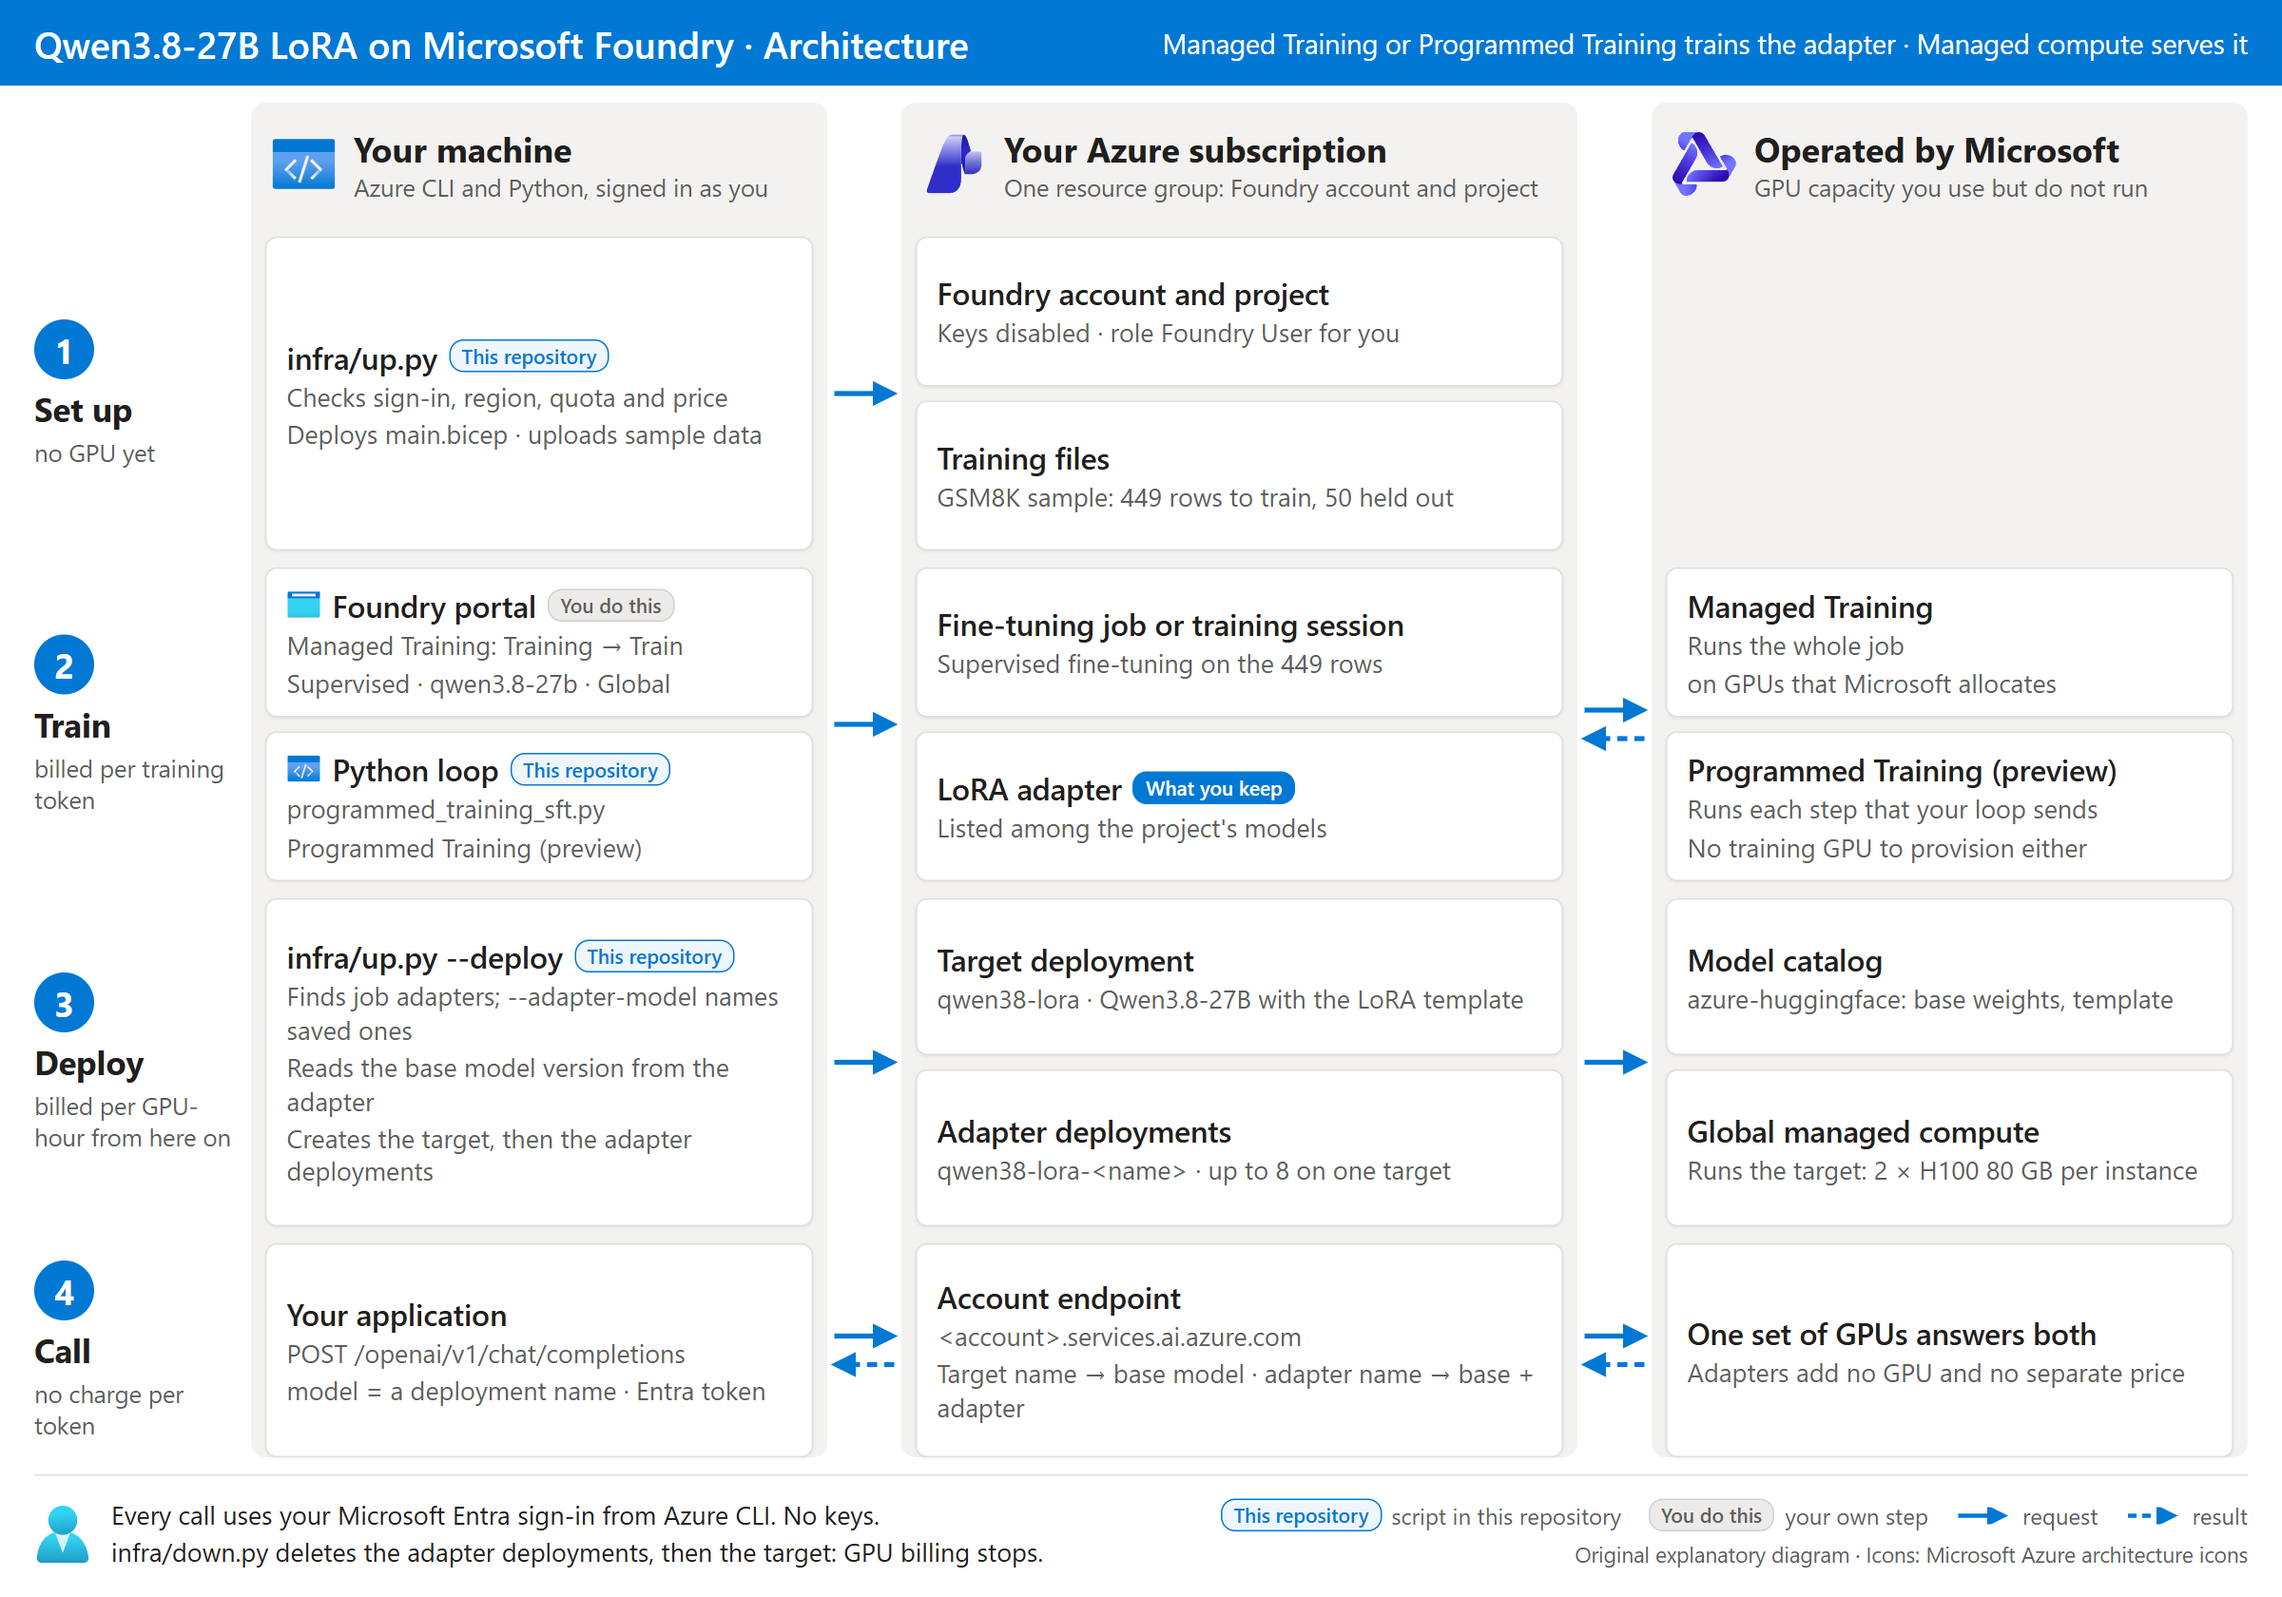
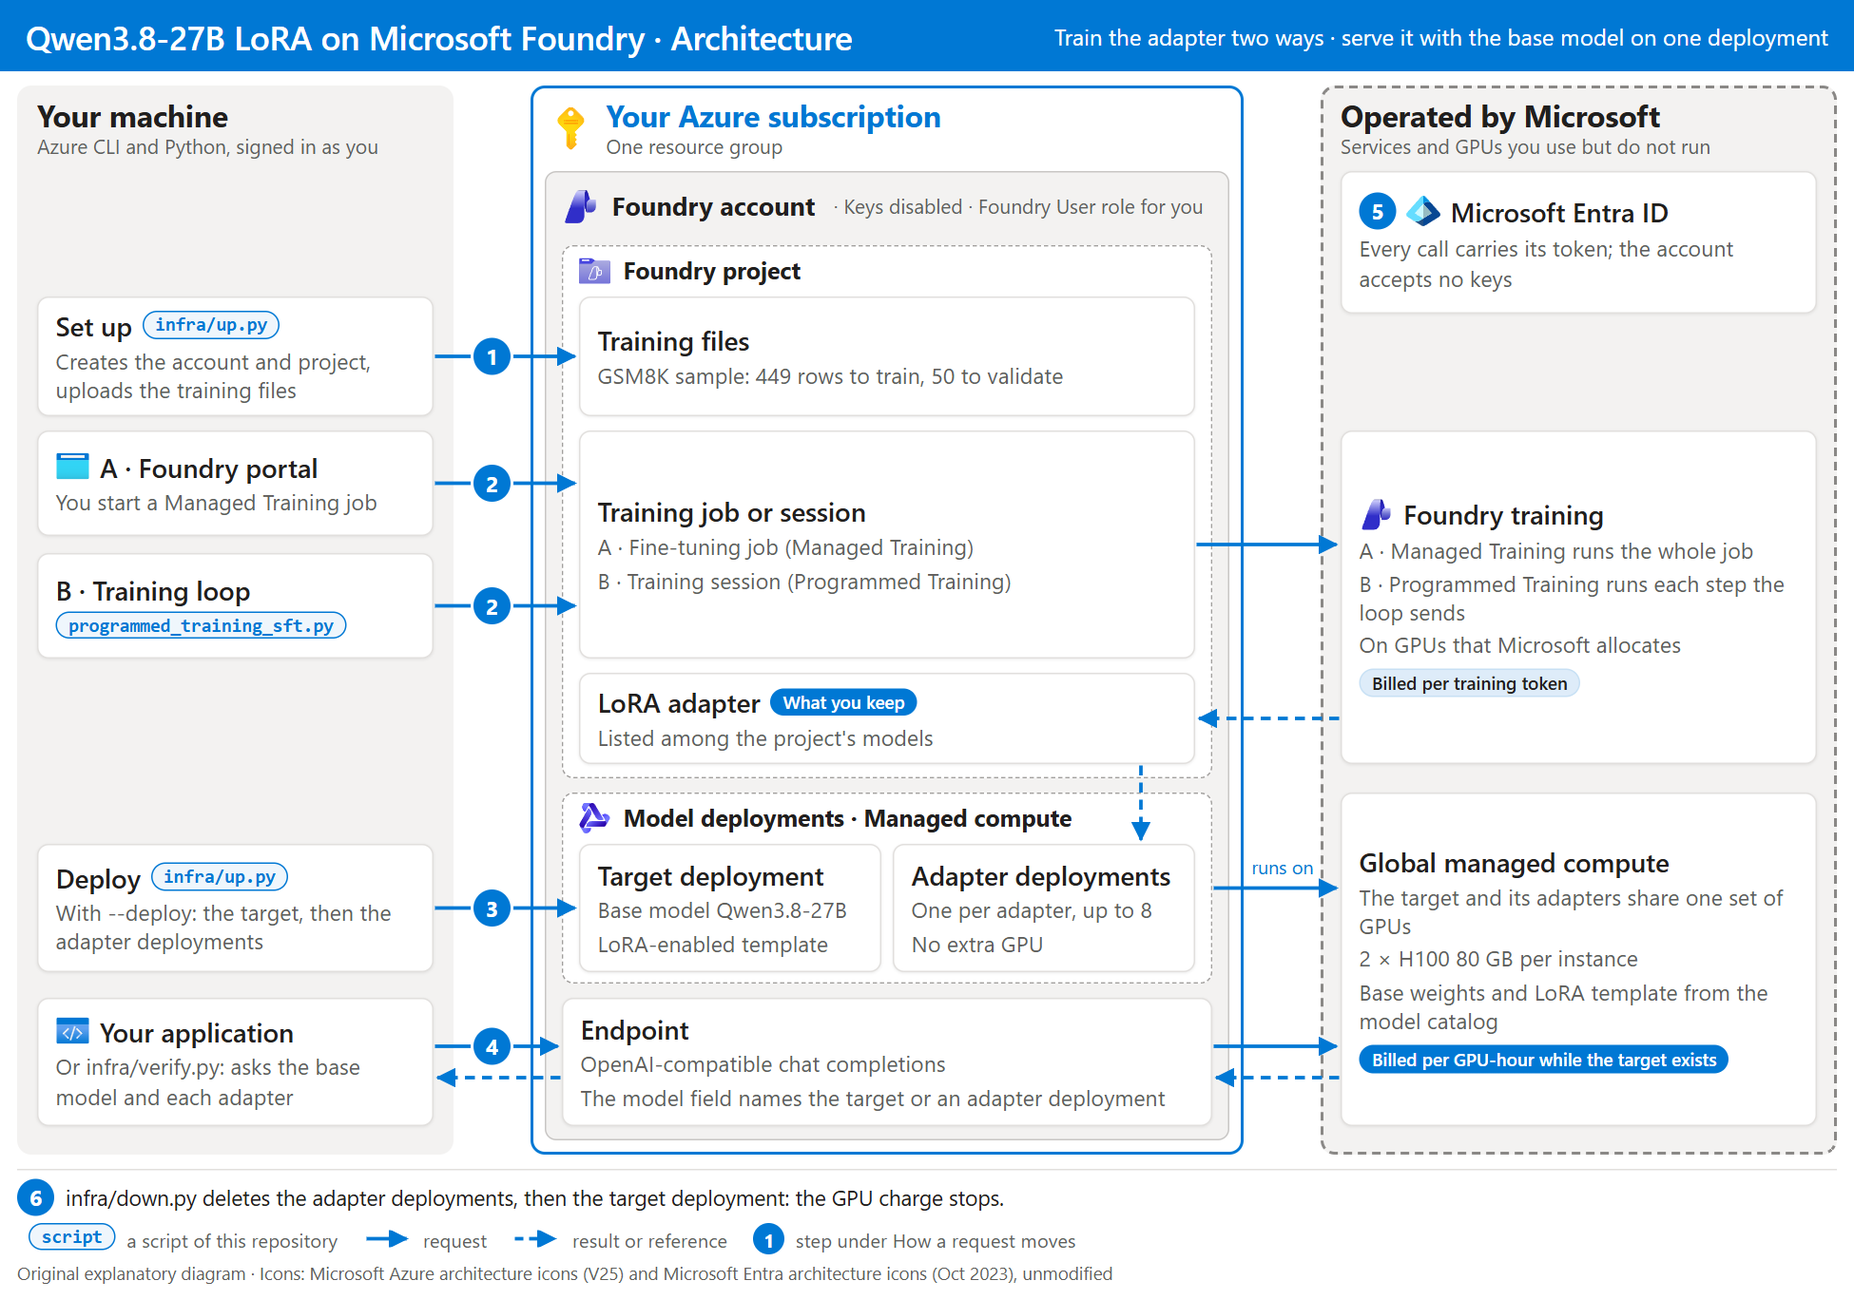
Foundry Model Training and Inference: one architecture figure in Purpose
Replace the architecture figure with one drawn in the Azure Architecture
Center style and move it to the top of Purpose: your machine, your Azure
subscription (resource group, Foundry account and project, Managed compute
deployments, endpoint) and the services Microsoft operates (Microsoft Entra ID,
Foundry training, Global managed compute), numbered like "How a request moves".

Icons: Azure architecture icons V25 and the Microsoft Entra architecture icons,
unmodified; NOTICE.md and images/SOURCES.json list both packages.

Changed region(s): [[0.0, 0.0, 0.9846, 0.9825], [0.7077, 0.1535, 0.9231, 0.2149]]

diff --git a/Agents/Foundry-Model-Training-and-Inference/README.md b/Agents/Foundry-Model-Training-and-Inference/README.md
@@ -14,6 +14,10 @@ Author: Xinyu Wei · [中文](README_CN.md)
 
 A team that wants an open-weight model to answer in its own format usually has to find GPUs twice: once to fine-tune the model and once to serve the result. Microsoft Foundry covers both for **Qwen3.8-27B** (preview). **Managed Training** runs a supervised fine-tuning job on GPUs that Microsoft allocates and returns a LoRA adapter. **Programmed Training** (preview) trains the same kind of adapter from a Python loop that you write and run. **Managed compute** serves the base model on dedicated GPUs and attaches adapters to it. The path from training to serving has details that cost money when they go wrong: an adapter has to be registered in the project before it can be deployed, the serving deployment has to use a LoRA-enabled template and the base-model version the adapter was trained on, the GPUs are billed for every hour the deployment exists, and deletion has an order.
 
+<img src="images/architecture-en.png" width="900" alt="Architecture in three areas. Your machine: infra/up.py sets up and deploys, the Foundry portal starts a Managed Training job (option A), the training loop programmed_training_sft.py drives a Programmed Training session (option B), and your application or infra/verify.py calls the endpoint. Your Azure subscription: one resource group with a Foundry account that has keys disabled and gives you the Foundry User role; inside the account, a Foundry project holds the training files (449 training rows, 50 validation rows), the training job or session and the LoRA adapter it produces; the account's Managed compute deployments are a target deployment of the base model Qwen3.8-27B with a LoRA-enabled template and one adapter deployment per adapter, up to 8, with no extra GPU; the account endpoint serves OpenAI-compatible chat completions, and the model field names the target or an adapter deployment. Operated by Microsoft: Microsoft Entra ID issues the token that every call carries; Foundry training runs the Managed Training job or each step of the Programmed Training loop on GPUs that Microsoft allocates, billed per training token; Global managed compute runs the target and its adapters on one set of GPUs, 2 H100 80 GB per instance, billed per GPU-hour while the target exists. Numbers 1 to 6 mark the steps under How a request moves; the last one, infra/down.py, deletes the adapter deployments and then the target deployment, which stops the GPU charge.">
+
+What the figure shows: what runs on your machine, what is created in your Azure subscription, and which services Microsoft operates for you. The numbers 1 to 6 are the steps under [How a request moves](#how-a-request-moves). Both training approaches end in the same place: a LoRA adapter listed among the project's models, which an adapter deployment attaches to the target deployment. It is an original explanatory diagram; where the numbers on this page were measured is shown under [Results](#what-the-sample-adapter-changes).
+
 This repository automates that path for both training approaches and makes every billed step explicit:
 
 - **Set up, no GPU.** `infra/up.py` checks your sign-in, region, GPU quota and the current list price, creates a Foundry account and project from `infra/main.bicep` with key authentication disabled, gives you the Foundry User role, and uploads the GSM8K sample files (449 training rows, 50 validation rows).
@@ -50,10 +54,6 @@ What it is not:
 | Serving | base weights, LoRA deployment template, GPUs, the endpoint | creates the target and adapter deployments in order and keeps the base-model version fixed | hold the GPU quota; pay per GPU-hour until you remove the target |
 | Access | Microsoft Entra ID and Azure roles | disables keys on the account, assigns Foundry User to you | sign in; give your application's identity the same role |
 | Safety and network | no built-in content filtering on Managed compute | not included | add the filtering and network isolation your scenario needs |
-
-<img src="images/architecture-en.png" width="900" alt="Architecture in four rows across three lanes: your machine, your Azure subscription, and capacity operated by Microsoft. Set up: infra/up.py creates the Foundry account and project and uploads the training files. Train, in one of two ways: in the Foundry portal you start a fine-tuning job that Managed Training runs on Microsoft's GPUs, or the Python loop of programmed_training_sft.py on your machine drives a Programmed Training session that runs each step the loop sends; either way a LoRA adapter is listed among the project's models. Deploy: infra/up.py --deploy finds the adapters that Managed Training jobs registered, takes the saved ones that --adapter-model names, and creates the target deployment and the adapter deployments, which use the model catalog and Global managed compute with 2 H100 GPUs per instance. Call: your application posts to the account endpoint with a deployment name in the model field; one set of GPUs answers for the base model and for the adapters.">
-
-What the figure shows: the four stages, which of them a script of this repository performs and which you perform yourself, what is created in your subscription, and what Microsoft operates. It is an original explanatory diagram; where the numbers on this page were measured is shown under [Results](#what-the-sample-adapter-changes). The Train row has both approaches: the portal step that starts a Managed Training job, and `training/programmed_training_sft.py`, whose loop on your machine drives a Programmed Training session. The Deploy row is what `infra/up.py --deploy` does: it finds the adapters of Managed Training jobs by itself and takes a Programmed Training adapter by the name you pass with `--adapter-model`.
 
 ### How a request moves
 

diff --git a/Agents/Foundry-Model-Training-and-Inference/README_CN.md b/Agents/Foundry-Model-Training-and-Inference/README_CN.md
@@ -14,6 +14,10 @@
 
 想让开放权重的模型按自己的格式作答，团队通常要找两次 GPU：一次用来微调，一次用来部署微调结果。对 **Qwen3.8-27B**（预览），Microsoft Foundry 把这两件事都做成了托管服务。**Managed Training**（托管训练）用 Microsoft 分配的 GPU 跑监督微调任务，交回一个 LoRA 适配器。**Programmed Training**（预览）训练的是同一种适配器，训练循环是你自己写、自己运行的 Python 代码。**Managed compute**（托管计算）用独占 GPU 部署基础模型，并把适配器挂到上面。从训练到部署之间有几处细节，出错就要花钱：适配器要先登记到项目里才能部署；推理部署必须用支持 LoRA 的部署模板，基础模型版本要和训练适配器时一致；GPU 从部署建好到删除，每小时都在计费；删除还有先后顺序。
 
+<img src="images/architecture-zh.png" width="900" alt="架构图，分三个区域。你的电脑：infra/up.py 负责准备和部署；在 Foundry 门户提交 Managed Training 任务（选项 A）；训练循环 programmed_training_sft.py 驱动一个 Programmed Training 会话（选项 B）；你的应用或 infra/verify.py 调用端点。你的 Azure 订阅：一个资源组，里面是禁用密钥、给你分配 Foundry User 角色的 Foundry 账户；账户里的 Foundry 项目存放训练文件（449 行训练数据、50 行验证数据）、训练任务或会话，以及它产出的 LoRA 适配器；账户的 Managed compute 部署包括一个目标部署（基础模型 Qwen3.8-27B，支持 LoRA 的部署模板）和每个适配器一个的适配器部署，最多 8 个，不增加 GPU；账户端点提供兼容 OpenAI 的 chat completions，model 字段写目标部署或某个适配器部署的名称。由 Microsoft 运营：Microsoft Entra ID 签发每次调用都要带的令牌；Foundry 训练用 Microsoft 分配的 GPU 运行 Managed Training 任务，或执行 Programmed Training 循环发来的每一步，按训练 token 计费；Global managed compute 用同一组 GPU 运行目标部署和它的适配器，每个实例 2 块 H100 80 GB，目标部署存在期间按 GPU 小时计费。编号 1 到 6 对应“一次请求怎么走”里的步骤；最后一步 infra/down.py 先删适配器部署、再删目标部署，GPU 计费随即停止。">
+
+图里画的是：哪些在你的电脑上运行，你的 Azure 订阅里创建了什么，哪些服务由 Microsoft 替你运营。编号 1 到 6 就是[一次请求怎么走](#一次请求怎么走)里的步骤。两种训练方式最后落在同一处：项目模型里的一个 LoRA 适配器，由适配器部署把它挂到目标部署上。这是原创解释图；本页数字是在哪里测的，见[实现效果](#示例适配器改变了什么)。
+
 本仓库把两种训练方式的这条路径都做成了脚本，每个计费的步骤都要你明确执行：
 
 - **准备，不开 GPU。** `infra/up.py` 检查登录、区域、GPU 配额和当前目录价，用 `infra/main.bicep` 创建禁用密钥认证的 Foundry 账户和项目，给你分配 Foundry User 角色，并上传 GSM8K 示例文件（449 行训练数据，50 行验证数据）。
@@ -50,10 +54,6 @@
 | 推理 | 基础权重、LoRA 部署模板、GPU、端点 | 按顺序创建目标部署和适配器部署，固定基础模型版本 | 准备 GPU 配额；删除目标部署之前按 GPU 小时付费 |
 | 访问控制 | Microsoft Entra ID 和 Azure 角色 | 禁用账户密钥，给你分配 Foundry User | 登录；给你的应用身份分配同一角色 |
 | 内容安全与网络 | Managed compute 没有内置内容过滤 | 不包含 | 按业务场景补上内容过滤和网络隔离 |
-
-<img src="images/architecture-zh.png" width="900" alt="架构图，四行三列：你的电脑、你的 Azure 订阅、Microsoft 负责运行的算力。准备：infra/up.py 创建 Foundry 账户和项目并上传训练文件。训练有两种做法：你在 Foundry 门户发起微调任务，由 Managed Training 用 Microsoft 的 GPU 运行；或者由你电脑上 programmed_training_sft.py 的 Python 循环驱动一个 Programmed Training 会话，会话执行循环发来的每一步；两种做法得到的 LoRA 适配器都列在项目的模型里。部署：infra/up.py --deploy 查找 Managed Training 任务登记的适配器，加上 --adapter-model 指定的、会话保存的适配器，创建目标部署和适配器部署，用到模型目录和 Global managed compute，每个实例 2 块 H100。调用：你的应用向账户端点发请求，model 字段填部署名；基础模型和适配器由同一组 GPU 回答。">
-
-图里画的是：四个阶段，哪些由本仓库的脚本完成、哪些由你自己操作，你的订阅里创建了什么，哪些由 Microsoft 运行。这是原创解释图；本页数字是在哪里测的，见[实现效果](#示例适配器改变了什么)。“训练”一行画了两种方式：在门户里发起 Managed Training 任务，或者运行 `training/programmed_training_sft.py`，由它在你电脑上的循环驱动一个 Programmed Training 会话。“部署”一行是 `infra/up.py --deploy` 做的事：Managed Training 任务的适配器它自己能找到，Programmed Training 的适配器按你用 `--adapter-model` 传入的名称来取。
 
 ### 一次请求怎么走
 

diff --git a/Agents/Foundry-Model-Training-and-Inference/NOTICE.md b/Agents/Foundry-Model-Training-and-Inference/NOTICE.md
@@ -2,7 +2,7 @@
 
 - **GSM8K sample data** is not included. `infra/up.py` and `training/programmed_training_sft.py` download `chat_train.jsonl` (449 rows) and `chat_validation.jsonl` (50 rows) from [`microsoft-foundry/fine-tuning`](https://github.com/microsoft-foundry/fine-tuning/tree/9ddb5e71f2eee8127b99fa8fba433d0f6593de5a/Sample_Datasets/Supervised_Fine_Tuning/Text-GSM8K) at commit `9ddb5e71f2eee8127b99fa8fba433d0f6593de5a` and check each file against a pinned SHA-256. That repository and its GSM8K folder are published under the MIT license.
 - **Qwen3.8-27B** is not included. Microsoft Foundry serves it from the `azure-huggingface` model registry; its own license, shown on its model card in the Foundry model catalog, applies to your use of it.
-- **Microsoft Azure architecture icons V25** are used unmodified in the diagrams in `images/` under Microsoft's [icon terms](https://learn.microsoft.com/azure/architecture/icons/). `images/SOURCES.json` lists each icon's package entry and SHA-256.
+- **Microsoft Azure architecture icons V25** and the **Microsoft Entra architecture icons** (October 2023) are used unmodified in the diagrams in `images/` under Microsoft's icon terms for [Azure](https://learn.microsoft.com/azure/architecture/icons/) and [Microsoft Entra](https://learn.microsoft.com/entra/architecture/architecture-icons). `images/SOURCES.json` lists each icon's package, package entry and SHA-256.
 - **The architecture figure and the test-topology figure** (`images/architecture-*.png`, `images/test-topology-*.png`) are original explanatory diagrams by the author. They explain the solution and the test setup; they are not official Microsoft diagrams.
 - **The portal screenshots** (`images/portal-*.png`) are real Microsoft Foundry portal screenshots taken by the author on 23 November 2026. They were cropped to the page area, and the subscription name and the values of the Created by column were covered. `images/SOURCES.json` records what each one shows, the SHA-256 of the published file and of its original.
 - **The Microsoft Learn table** (`images/learn-training-approaches.png`) is a screenshot of the table under "Choose your training approach" on the Microsoft Learn page [Training in Microsoft Foundry](https://learn.microsoft.com/en-us/azure/foundry/fine-tuning/overview#choose-your-training-approach), taken on 23 November 2026 from the page as last updated on 17 November 2026. It shows the table region as the page renders it; no pixel was changed. The content is Microsoft's documentation, shown with its source; the [Microsoft Learn terms of use](https://learn.microsoft.com/en-us/legal/termsofuse) apply to it.
